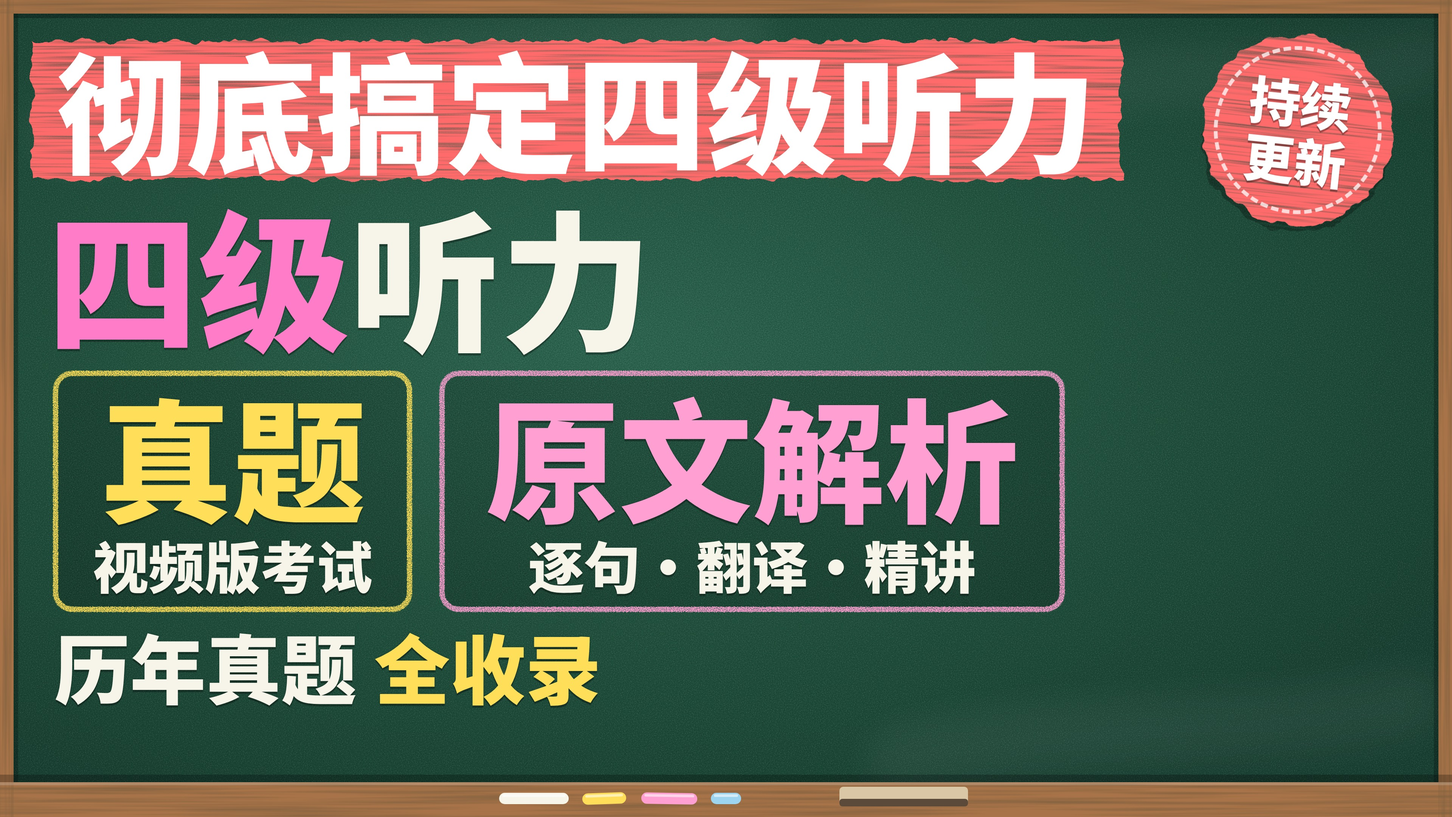
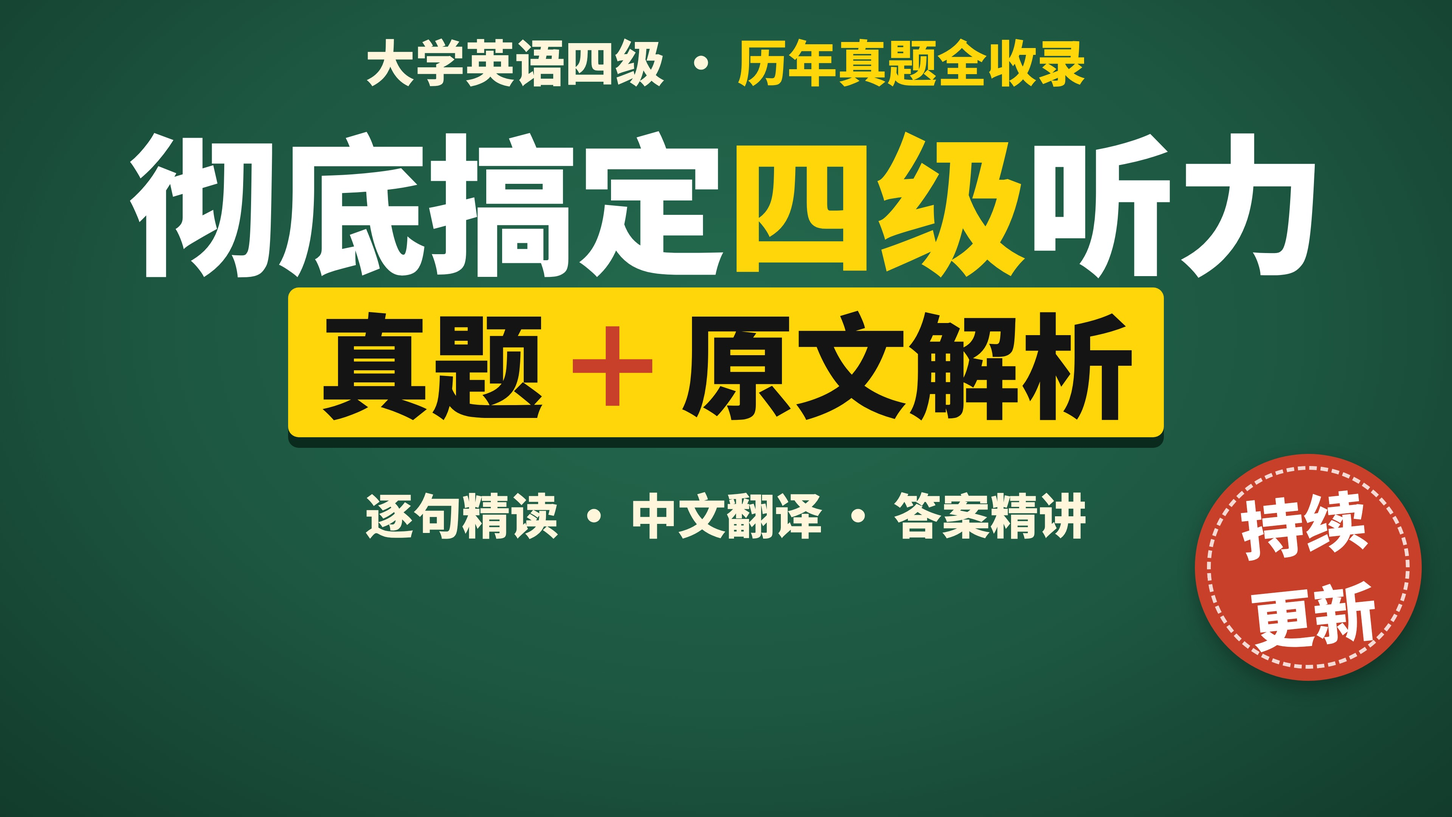
四级听力 B 站封面改用四级写作风格（米白纸面、红绿大字、真实画面卡片、持续更新圆章）
老师要求不能与六级听力黑板封面同风格；画面卡片取已发布 202506-1 原文解析视频一帧、裁掉印年份的页眉和 N / 200 进度条。
自查改用四级写作 CHECK_JS + 字体 cmap；画面不许有任何数字（年份、套数），--自检 双向验证通过。

Claude-Session: https://claude.ai/code/session_01BA1TPEEhbxA8jLrWbyseLi

diff --git a/四级/听力/封面/系列封面.py b/四级/听力/封面/系列封面.py
@@ -1,12 +1,16 @@
-"""四级听力 B 站系列封面（2026-11-06）：与六级听力封面（六级/听力/封面/系列封面.py）同一黑板系列，改成四级。
+"""四级听力 B 站系列封面（2026-11-06）：沿用「四级写作」封面风格（四级作文/封面/系列封面.py：配色、字体、版式、圆章、真实画面卡片）。
 
-    /opt/ttsenv/bin/python 四级/听力/封面/系列封面.py 草稿        # A/B/C 三个方向 16:9 + 4:3，只出 320×180、960×540 缩略图到 work/
-    /opt/ttsenv/bin/python 四级/听力/封面/系列封面.py 定稿 A      # 定稿出 16:9 + 4:3（PNG + JPG）到 系列封面/，另两个方向 16:9 JPG 作备选
-    /opt/ttsenv/bin/python 四级/听力/封面/系列封面.py --自检      # 双向验证：①字号×0.4 每个 data-min 元素都报、正常 0；②放进年份 / “N 套”必须报、现在 0
+    python3 四级/听力/封面/系列封面.py 草稿        # A/B/C 三个方向 16:9 + 4:3，只出 320×180、960×540 缩略图到 work/
+    python3 四级/听力/封面/系列封面.py 定稿 A      # 定稿出 16:9 + 4:3（PNG + JPG）到 系列封面/，另两个方向 16:9 JPG 作备选
+    python3 四级/听力/封面/系列封面.py --自检      # 双向验证：正常 0；字号×0.5、放回年份、写死套数、出现任何数字、缺字、圆章字出圆、缺必有的话都报
 
-老师要求（2026-11-06）：封面上绝对不出现任何年份（每年加新听力不换封面），改用“持续更新 / 最新真题”；套数也不写死，用“历年真题全收录”。
-两种视频都要突出：视频版真题考试（真题）＋ 原文逐句精读（原文解析：中文翻译、答案、精讲）。
-程序自查：六级作文 CHECK_JS（不出画、不压框、不进底角遮挡区、不重叠、字体加载、缩略图字高，踩坑 76）＋ NO_YEAR（画面文字里出现 19xx/20xx 或“数字＋套”就报）。
+老师要求（2026-11-06）：
+- 风格与四级写作封面一样，不能与六级听力（黑板）同一风格——两个系列并排要一眼分得开；
+- 封面上绝对不出现任何年份（每年加新听力不换封面），用“持续更新 / 最新真题”；套数不写死，用“历年真题全收录”；
+- 两种视频都要突出：视频版真题考试（真题）＋ 原文逐句精读（原文解析）；手机信息流 320×180 一眼看清。
+程序自查：四级写作的 CHECK_JS（不出画、不进底角遮挡区、不重叠、不压截图、圆章字在圆内、字体加载、缩略图字高 主标题 24 / 钩子 13 / 卖点 10 像素）
+＋ text_problems（每个字在所用字体 cmap 里；画面文字不许有任何数字——年份、套数都不许；“N 套”中文数字也报；必有的话都在）。
+素材：画面_原文解析.webp = 已发布的 cet4-listening-202506-1-text.mp4 第 200 秒一帧，裁掉顶部（印着年份月份）和底部（句号进度 “31 / 200”）。
 """
 import importlib.util
 import re
@@ -19,6 +23,7 @@ HERE = Path(__file__).resolve().parent
 REPO = HERE.parents[2]
 WORK = HERE / 'work'
 OUT = HERE / '系列封面'
+SHOT = HERE / '画面_原文解析.webp'
 
 
 def _load(name, path):
@@ -28,167 +33,185 @@ def _load(name, path):
     return m
 
 
-L = _load('cet6_cover', REPO / '六级/封面/系列封面.py')            # 黑板主题：配色、滤镜、木框、粉笔涂块
-W = _load('cet6w_cover', REPO / '六级作文/封面/系列封面.py')       # 自查程序 CHECK_JS
-S6 = _load('cet6l_cover', REPO / '六级/听力/封面/系列封面.py')     # 粉笔耳机、黑板底
-
-CHALK, YEL, PNK, BLU, INK, HOT = L.CHALK, L.YEL, L.PNK, L.BLU, L.INK, L.HOT
-RED = W.RED
+W4 = _load('cet4w_cover', REPO / '四级作文/封面/系列封面.py')     # 四级写作：配色、字体、css、CHECK_JS、cmap
+PAPER, GREEN, RED, INK, YEL, CREAM = W4.PAPER, W4.GREEN, W4.RED, W4.INK, W4.YEL, W4.CREAM
+FONTS = W4.FONTS
 MIN_TITLE, MIN_HOOK, MIN_SELL = 24, 13, 10
-K = 1.0                                                          # 字号系数：只给 --自检 用
-FOUR = f'<span style="color:{HOT}">四级</span>'
+MUST = ['彻底搞定四级听力', '真题', '原文解析', '持续更新', '历年真题全收录']
+K = 1.0          # 字号系数（只给 --自检 用）
+EXTRA = ''       # 自检时往画面里塞的东西
+SEAL_R = .28     # 圆章字号 / 直径（自检放大到 .40 必须报“字出了圆”）
 JX = '原文解析'
-PLUS = f'<span class="ck" style="color:{CHALK};margin:0 .12em">＋</span>'
-board, phones = S6.board, S6.phones
-
-# 画面文字里不许有年份、不许有具体套数（老师 2026-11-06）；全角数字先折成半角再查
-NO_YEAR_JS = r"""() => {
-  const t = document.body.innerText.replace(/[０-９]/g, c => String.fromCharCode(c.charCodeAt(0) - 0xFEE0));
-  const out = [];
-  for (const m of t.matchAll(/(?<!\d)(19|20)\d\d(?!\d)/g)) out.push('年份 ' + m[0]);
-  for (const m of t.matchAll(/(?<!\d)(?:[2-9]|[1-9]\d+)\s*套|(?:[二两三四五六七八九十百]|一[十百])[一二三四五六七八九十百]*\s*套/g)) out.push('套数 ' + m[0].replace(/\s+/g, ''));
-  return out;
-}"""
 
 
 def fs(n):
     return f'{n * K:.0f}px'
 
 
-def y(t):
-    return f'<span style="color:{YEL}">{t}</span>'
+def seal(x, y, d, bg=RED, fg='#fff', rot=-8, ring='rgba(255,255,255,.8)'):
+    """“持续更新”圆章（钩子；四级写作是“2026.6 已更新”，听力不写年份）。"""
+    return (f'<div class="ab" data-k="seal" data-min="{MIN_HOOK}" data-round="1" style="left:{x}px;top:{y}px;width:{d}px;height:{d}px;border-radius:50%;'
+            f'background:{bg};color:{fg};transform:rotate({rot}deg);display:flex;flex-direction:column;align-items:center;justify-content:center;'
+            f'box-shadow:0 10px 24px rgba(0,0,0,.28);line-height:1.08">'
+            f'<i style="position:absolute;inset:{d * .055:.0f}px;border-radius:50%;border:{max(3, d * .016):.0f}px dashed {ring}"></i>'
+            f'<span style="font:900 {fs(d * SEAL_R)} Black">持续</span>'
+            f'<span style="font:900 {fs(d * SEAL_R)} Black">更新</span></div>')
 
 
-def seal(x, y_, d, rot=8, top='持续', bot='更新'):
-    """“持续更新”粉笔红圆章（六级是“2026 已更新”，四级不写年份）。"""
-    return (f'<div class="ab" data-k="seal" data-min="{MIN_SELL}" style="left:{x}px;top:{y_}px;width:{d}px;height:{d}px;transform:rotate({rot}deg);'
-            f'display:flex;flex-direction:column;align-items:center;justify-content:center;line-height:1.05;color:#fff">'
-            f'<i style="position:absolute;inset:0;border-radius:50%;background:{RED};filter:url(#rough);box-shadow:0 8px 0 rgba(0,0,0,.3)"></i>'
-            f'<i style="position:absolute;inset:{d * .06:.0f}px;border-radius:50%;border:5px dashed rgba(255,255,255,.75)"></i>'
-            f'<span class="ck" style="position:relative;font:900 {fs(d * .27)}/1.12 Black">{top}</span>'
-            f'<span class="ck" style="position:relative;font:900 {fs(d * .27)}/1.12 Black">{bot}</span></div>')
+def card(x, y, w, rot=3):
+    return f'<img class="card" data-k="card" src="{SHOT.as_uri()}" style="left:{x}px;top:{y}px;width:{w}px;transform:rotate({rot}deg)">'
 
 
-def tags(size, pos, k='tags'):
-    return (f'<div class="ab" data-k="{k}" data-min="{MIN_TITLE}" style="{pos};white-space:nowrap;font:900 {fs(size)}/1.22 Black">'
-            f'{L.hl("真题", YEL, px=22)}{PLUS}{L.hl(JX, BLU, px=22)}</div>')
+def two(size, pad):
+    """“真题 ＋ 原文解析”：墨绿实底白字（与四级写作「四级真题范文」同一块）。"""
+    return (f'font:900 {fs(size)}/1 Black;color:#fff;background:{GREEN};padding:{size * .16:.0f}px {size * .22:.0f}px {size * .2:.0f}px;box-shadow:12px 12px 0 {RED}">'
+            f'真题<span style="color:{YEL};margin:0 .1em">＋</span>{JX}')
 
 
-def hook(size, pos, px=30):
-    return f'<div class="ab" data-k="hook" data-min="{MIN_HOOK}" style="{pos};font:900 {fs(size)}/1.18 Black">{L.hl("彻底搞定四级听力", RED, ink="#fff", px=px)}</div>'
-
-
-# ───────── A：六级定稿同版式；年份一行换成“历年真题全收录” ─────────
+# ───────── A：四级写作定稿同版式（米白纸面 ＋ 真实画面 ＋ 红圆章） ─────────
 def A(w=1920, h=1080):
-    big = w >= 1900
-    if not big:
-        return board(w, h, f"""
-{hook(128, 'left:60px;top:46px', 26)}
-{seal(1160, 60, 240, rot=6)}
-<div class="ab ck" data-k="title" data-min="{MIN_TITLE}" style="left:54px;top:236px;font:900 {fs(230)}/1 Black;letter-spacing:-.02em">{FOUR}听力</div>
-{tags(158, 'left:84px;top:486px')}
-{phones(1080, 700, .8)}
-<div class="ab ck" data-k="years" data-min="{MIN_SELL}" style="left:60px;top:712px;font:900 {fs(96)}/1.2 Black">历年真题<br>{y('全收录')}</div>""")
-    return board(w, h, f"""
-{hook(172, 'left:74px;top:40px', 32)}
-{seal(1590, 46, 252, rot=6)}
-<div class="ab ck" data-k="title" data-min="{MIN_TITLE}" style="left:62px;top:272px;font:900 {fs(230)}/1 Black;letter-spacing:-.02em">{FOUR}听力</div>
-{tags(168, 'left:96px;top:520px')}
-{phones(1580, 690, .86)}
-<div class="ab ck" data-k="years" data-min="{MIN_SELL}" style="left:72px;top:768px;font:900 {fs(116)}/1.2 Black">历年真题 {y('全收录')}</div>""")
+    wide = w >= 1900
+    t = 250 if wide else 220
+    sub = 150 if wide else 146
+    left = 74 if wide else 60
+    return f"""
+<div style="position:absolute;inset:0;background:{PAPER}"></div>
+<div style="position:absolute;left:0;top:0;width:{w}px;height:22px;background:{GREEN}"></div>
+<div style="position:absolute;left:{left}px;top:22px;width:{w - 2 * left}px;height:4px;background:{RED}"></div>
+<div class="ab" data-k="sell" data-min="{MIN_SELL}" style="left:{left}px;top:44px;font:900 {fs(64)}/1.2 SerifSC;color:{GREEN};letter-spacing:.02em">
+ 历年真题全收录 · <span style="color:{RED}">逐句精读</span></div>
+<div class="ab" data-k="title" data-min="{MIN_TITLE}" style="left:{left - 8}px;top:{128 if wide else 140}px;font:900 {fs(t)}/1.04 Black;color:{INK};letter-spacing:-.02em">
+ <div>彻底搞定</div><div><span style="color:{RED}">四级</span>听力</div></div>
+<div class="ab" data-k="sub" data-min="{MIN_TITLE}" style="left:{left}px;top:{t * 2.08 + (150 if wide else 168):.0f}px;{two(sub, 0)}</div>
+{card(1260, 560, 620, rot=3) if wide else card(1020, 850, 380, rot=4)}
+{seal(1520, 50, 340) if wide else seal(1040, 170, 340)}
+{EXTRA}"""
 
 
-# ───────── B：两张粉笔框大卡片，各带一行小说明 ─────────
-def card(word, col, note, size, wcard):
-    return (f'<div style="position:relative;display:inline-block;vertical-align:top;width:{wcard}px;padding:10px 0 18px;text-align:center;margin-right:36px">'
-            f'<i style="position:absolute;inset:0;border:7px solid {col};border-radius:26px;background:rgba(0,0,0,.20);filter:url(#line)"></i>'
-            f'<div class="ck" style="position:relative;font:900 {fs(size)}/1.15 Black;color:{col}">{word}</div>'
-            f'<div class="ck" data-k="note" data-min="{MIN_SELL}" style="position:relative;font:900 {fs(size * .42)}/1.2 Black;color:{CHALK}">{note}</div></div>')
-
-
+# ───────── B：深绿底 · 居中大字（四级写作备选 B 同版式） ─────────
 def B(w=1920, h=1080):
-    big = w >= 1900
-    sz = 176 if big else 150
-    c1 = card('真题', YEL, '视频版考试', sz, round(sz * 2.7))
-    c2 = card(JX, PNK, '逐句·翻译·精讲', sz, round(sz * 4.7))
-    return board(w, h, f"""
-{hook(172 if big else 128, f'left:{74 if big else 60}px;top:{40 if big else 46}px', 32 if big else 26)}
-{seal(1590 if big else 1160, 46 if big else 60, 252 if big else 240, rot=6)}
-<div class="ab ck" data-k="title" data-min="{MIN_TITLE}" style="left:62px;top:{262 if big else 236}px;font:900 {fs(200 if big else 190)}/1 Black">{FOUR}听力</div>
-<div class="ab" data-k="tags" data-min="{MIN_TITLE}" style="left:{70 if big else 60}px;top:{490 if big else 456}px;white-space:nowrap">{c1}{c2}</div>
-<div class="ab ck" data-k="years" data-min="{MIN_SELL}" style="left:72px;top:{820 if big else 800}px;font:900 {fs(100 if big else 90)}/1.2 Black">历年真题 {y('全收录')}</div>""")
+    wide = w >= 1900
+    c = w / 2
+    t = 200 if wide else 156
+    sub = 150 if wide else 146
+    tops = (40, 150, 380, 640) if wide else (36, 136, 330, 570)
+    sl = seal(1580, 600, 300, rot=-6) if wide else seal(c - 170, 680, 340, rot=-6)
+    return f"""
+<div style="position:absolute;inset:0;background:radial-gradient(ellipse at 50% 40%, #236a4f 0%, {GREEN} 55%, #123b2b 100%)"></div>
+<div class="ab" data-k="sell" data-min="{MIN_SELL}" style="left:{c}px;transform:translateX(-50%);top:{tops[0]}px;font:900 {fs(66)}/1.2 Black;color:{CREAM}">
+ 大学英语四级 · <span style="color:{YEL}">历年真题全收录</span></div>
+<div class="ab" data-k="title" data-min="{MIN_TITLE}" style="left:{c}px;transform:translateX(-50%);top:{tops[1]}px;font:900 {fs(t)}/1.1 Black;color:#fff;letter-spacing:-.01em">
+ 彻底搞定<span style="color:{YEL}">四级</span>听力</div>
+<div class="ab" data-k="sub" data-min="{MIN_TITLE}" style="left:{c}px;transform:translateX(-50%);top:{tops[2]}px;font:900 {fs(sub)}/1 Black;color:{INK};background:{YEL};padding:{sub * .14:.0f}px {sub * .26:.0f}px {sub * .18:.0f}px;border-radius:14px;box-shadow:0 14px 0 #0b2a1e">
+ 真题<span style="color:{RED};margin:0 .1em">＋</span>{JX}</div>
+<div class="ab" data-k="sell2" data-min="{MIN_SELL}" style="left:{c}px;transform:translateX(-50%);top:{tops[3]}px;font:900 {fs(64)}/1.2 Black;color:{CREAM}">
+ 逐句精读 · 中文翻译 · 答案精讲</div>
+{sl}
+{EXTRA}"""
 
 
-# ───────── C：主标题两行纯粉笔字，钩子红块压在下面 ─────────
+# ───────── C：黄黑撞色（四级写作备选 C 同版式）＋ 真实画面 ─────────
 def C(w=1920, h=1080):
-    big = w >= 1900
-    return board(w, h, f"""
-<div class="ab ck" data-k="title" data-min="{MIN_TITLE}" style="left:62px;top:50px;font:900 {fs(236 if big else 214)}/1 Black;letter-spacing:-.02em">{FOUR}听力</div>
-{seal(1590 if big else 1160, 46 if big else 60, 252 if big else 240, rot=6, top='最新', bot='真题')}
-<div class="ab ck" data-k="tags" data-min="{MIN_TITLE}" style="left:62px;top:{318 if big else 312}px;white-space:nowrap;font:900 {fs(190 if big else 156)}/1 Black">
- <span style="color:{YEL}">真题</span><span style="color:{CHALK}">＋</span><span style="color:{BLU}">{JX}</span></div>
-<div class="ab ck" data-k="years" data-min="{MIN_SELL}" style="left:72px;top:{560 if big else 530}px;font:900 {fs(104 if big else 92)}/1.2 Black">历年真题 {y('全收录')}</div>
-{hook(160 if big else 126, f'left:{90 if big else 70}px;top:{760 if big else 720}px', 30)}""")
+    wide = w >= 1900
+    left = 84 if wide else 60
+    return f"""
+<div style="position:absolute;inset:0;background:{YEL}"></div>
+<div class="ab" data-k="sell" data-min="{MIN_SELL}" style="left:{left}px;top:48px;font:900 {fs(64 if wide else 62)}/1.2 Black;color:{INK}">
+ 大学英语四级 · 历年真题全收录</div>
+<div class="ab" data-k="sub" data-min="{MIN_TITLE}" style="left:{left - 6}px;top:130px;font:900 {fs(200 if wide else 150)}/1 Black;color:{INK};letter-spacing:-.02em">
+ 真题<span style="color:{RED}">＋</span>{JX}</div>
+<div class="ab" data-k="title" data-min="{MIN_TITLE}" style="left:{left}px;top:{390 if wide else 350}px;font:900 {fs(150)}/1.2 Black;color:#fff;background:{INK};padding:0 30px 6px">
+ 彻底搞定<span style="color:{YEL}">四级听力</span></div>
+<div class="ab" data-k="sell2" data-min="{MIN_SELL}" style="left:{left}px;top:{630 if wide else 590}px;font:900 {fs(64)}/1.2 Black;color:{INK}">
+ 视频版考试 · 逐句精读</div>
+{card(1130, 650, 660, rot=-3) if wide else card(70, 740, 560, rot=-2)}
+{seal(1500, 520, 340, rot=10) if wide else seal(1052, 570, 340, rot=6)}
+{EXTRA}"""
 
 
 DIRS = {'A': A, 'B': B, 'C': C}
 
 
+def no_year_problems(text):
+    """画面文字（老师 2026-11-06）：不许有任何数字（年份、套数、期数都会过时），中文数字＋套也报。"""
+    t = text.translate({0xFF10 + i: 0x30 + i for i in range(10)})
+    out = ['年份 ' + m.group() for m in re.finditer(r'(?<!\d)(19|20)\d\d(?!\d)', t)]
+    out += ['数字 ' + m.group() for m in re.finditer(r'\d+', t) if not re.fullmatch(r'(19|20)\d\d', m.group())]
+    out += ['套数 ' + m.group() for m in re.finditer(r'[一二两三四五六七八九十百]+\s*套', t)]
+    return out
+
+
+def text_problems(res):
+    out = []
+    for fam, t in res['texts']:
+        f0 = fam.split(',')[0].strip().strip('"\'')
+        if f0 not in FONTS:
+            out.append(f'「{t.strip()}」用了不认识的字体 {fam}')
+            continue
+        miss = {ch for ch in t if not ch.isspace() and ord(ch) not in W4.cmap(f0)}
+        if miss:
+            out.append(f'「{t.strip()}」{f0} 缺字 {"".join(sorted(miss))}（会回退到系统字体）')
+    out += no_year_problems(res['all'])
+    flat = re.sub(r'\s+', '', res['all'])
+    out += [f'画面上没有「{s}」' for s in MUST if s not in flat]
+    return out
+
+
 def render(br, body, w, h, name, out):
     html = WORK / f'{name}.html'
-    html.write_text(f'<!doctype html><html><head><meta charset="utf-8"><style>{L.css(w, h)}</style></head>'
-                    f'<body>{L.SVG_DEFS}{body}</body></html>', 'utf-8')
+    html.write_text(f'<!doctype html><html><head><meta charset="utf-8"><style>{W4.css(w, h)}</style></head><body>{body}</body></html>', 'utf-8')
     pg = br.new_page(viewport={'width': w, 'height': h}, device_scale_factor=2)
     pg.goto(html.as_uri())
-    pg.evaluate('document.fonts.ready.then(() => [...document.fonts].forEach(f => f.load()))')
+    pg.evaluate('document.fonts.ready.then(() => Promise.all([...document.fonts].map(f => f.load())))')
     pg.evaluate('document.fonts.ready')
-    pg.wait_for_timeout(500)
-    res = pg.evaluate(W.CHECK_JS)
-    res['problems'] += pg.evaluate(NO_YEAR_JS)
+    pg.wait_for_timeout(400)
+    res = pg.evaluate(W4.CHECK_JS)
     png = out / f'{name}.png'
     pg.screenshot(path=str(png))
     pg.close()
-    return png, res
+    return png, res['problems'] + text_problems(res)
 
 
 def selftest(br):
-    global K
+    global K, EXTRA, SEAL_R
     bad = []
+    ins = lambda s: f'<div class="ab" data-k="num" style="left:900px;top:960px;font:900 40px Black">{s}</div>'
+    cases = [('正常', 1.0, '', None),
+             ('字号×0.5', 0.5, '', '缩略图字高'),
+             ('年份', 1.0, ins('2026 已更新'), '年份 2026'),
+             ('年份段', 1.0, ins('2018—2026'), '年份 2018'),
+             ('全角年份', 1.0, ins('２０２５年'), '年份 2025'),
+             ('套数', 1.0, ins('全部 35 套'), '数字 35'),
+             ('中文套数', 1.0, ins('真题三十五套'), '套数 三十五套'),
+             ('缺字', 1.0, ins('四级😀'), '缺字'),
+             ('圆章字大', 1.0, '', '字出了圆')]
     for k, f in DIRS.items():
         for w in (1920, 1440):
-            for kk in (1.0, 0.4):
-                K = kk
+            for nm, kk, extra, want in cases:
+                K, EXTRA, SEAL_R = kk, extra, (.40 if nm == '圆章字大' else .28)
                 body = f(w, 1080)
-                _, res = render(br, body, w, 1080, f'自检_{k}_{w}', WORK)
-                hit = {x.split()[0] for x in res['problems'] if '缩略图字高' in x}
-                need = set(re.findall(r'data-k="(\w+)" data-min=', body)) if kk < 1 else set()
-                if kk < 1 and not {'hook', 'years', 'title', 'tags'} <= need:
-                    bad.append(f'{k}{w} 缺少 data-min 元素：{sorted(need)}')
-                if hit != need:
-                    bad.append(f'{k}{w} 字号×{kk}：报出 {sorted(hit)}，应为 {sorted(need)}')
-                other = [x for x in res['problems'] if '缩略图字高' not in x]
-                if kk == 1.0 and other:
-                    bad.append(f'{k}{w} 正常版报出：{other}')
-            K = 1.0
-            # 年份 / 套数雷：六级的旧说法放回去必须报（各种写法）
-            for mine, want in ((seal(1590, 46, 252, top='2026', bot='已更新'), '年份 2026'),
-                               ('历年真题 全收录', None),
-                               ('历年真题 <span>2018—2026</span>', '年份 2018'),
-                               ('全部 <span style="color:#ff0">35</span> 套', '套数 35套'),
-                               ('全部 ２０２５ 年', '年份 2025'),
-                               ('真题三十五套', '套数 三十五套')):
-                body = f(w, 1080).replace('</div>', f'</div><div class="ab" style="left:300px;top:300px">{mine}</div>', 1)
-                _, res = render(br, body, w, 1080, f'自检雷_{k}_{w}', WORK)
-                got = [x for x in res['problems'] if x.startswith(('年份', '套数'))]
-                if want is None and got:
-                    bad.append(f'{k}{w} 雷 {mine!r} 不该报：{got}')
-                if want and want not in got:
-                    bad.append(f'{k}{w} 雷 {mine!r} 没报出 {want}：{got}')
+                _, probs = render(br, body, w, 1080, f'自检_{k}_{w}_{nm}', WORK)
+                if want is None:
+                    if probs:
+                        bad.append(f'{k}{w} 正常却报 {probs}')
+                elif want == '缩略图字高':
+                    need = set(re.findall(r'data-k="(\w+)" data-min=', body))
+                    hit = {x.split()[0] for x in probs if want in x}
+                    if hit != need or not {'title', 'sub', 'seal'} <= need:
+                        bad.append(f'{k}{w} {nm}：报出 {sorted(hit)}，应为 {sorted(need)}')
+                elif not any(want in x for x in probs):
+                    bad.append(f'{k}{w} {nm}：没报出 {want}（{probs}）')
+            body = f(w, 1080).replace('历年真题全收录', '历年真题')       # 必有的话
+            _, probs = render(br, body, w, 1080, f'自检_{k}_{w}_必有', WORK)
+            if not any('历年真题全收录' in x for x in probs):
+                bad.append(f'{k}{w} 去掉“历年真题全收录”没报')
+    K, EXTRA, SEAL_R = 1.0, '', .28
     return bad
 
 
 def main(args):
     from playwright.sync_api import sync_playwright
+    W4.ensure_fonts()
     WORK.mkdir(exist_ok=True)
     OUT.mkdir(exist_ok=True)
     bad = []
@@ -197,22 +220,20 @@ def main(args):
         if args[0] == '--自检':
             bad = selftest(br)
             br.close()
-            print('\n'.join(bad) or '自检通过：字号×0.4 每个 data-min 元素全部报出、正常 0；年份 / 套数雷全部报出、正常 0（A/B/C × 16:9、4:3）')
+            print('\n'.join(bad) or '自检通过：正常 0 处；字号×0.5、年份（含年份段、全角）、套数（含中文数字）、缺字、圆章字出圆、缺必有的话全部报出（A/B/C × 16:9、4:3）')
             return 1 if bad else 0
         final = args[1] if args[0] == '定稿' else None
         stem = '四级听力真题与原文解析_封面'
         jobs = []
         for k, f in DIRS.items():
             if final is None:
-                jobs += [(f(1920, 1080), 1920, 1080, f'草稿_{k}_16比9', WORK), (f(1440, 1080), 1440, 1080, f'草稿_{k}_4比3', WORK)]
+                jobs += [(f(1920, 1080), 1920, 1080, f'草稿_{k}_16比9', WORK, False), (f(1440, 1080), 1440, 1080, f'草稿_{k}_4比3', WORK, False)]
             elif k == final:
                 jobs += [(f(1920, 1080), 1920, 1080, f'{stem}_16比9', OUT, True), (f(1440, 1080), 1440, 1080, f'{stem}_4比3', OUT, True)]
             else:
                 jobs.append((f(1920, 1080), 1920, 1080, f'{stem}备选{k}_16比9', OUT, False))
-        for job in jobs:
-            body, w, h, name, out = job[:5]
-            keep_png = job[5] if len(job) > 5 else True
-            png, res = render(br, body, w, h, name, out)
+        for body, w, h, name, out, keep_png in jobs:
+            png, probs = render(br, body, w, h, name, out)
             im = Image.open(png).convert('RGB')
             assert im.size == (w * 2, h * 2), im.size
             th = round(w * 180 / h)
@@ -224,12 +245,12 @@ def main(args):
                 print(f'{jpg.name} {jpg.stat().st_size / 1e6:.1f} MB')
                 if not keep_png:
                     png.unlink()
-            bad += [f'{name}: {x}' for x in res['problems']]
+            bad += [f'{name}: {x}' for x in probs]
         br.close()
     if bad:
         print('自查不通过：\n  ' + '\n  '.join(bad))
         return 1
-    print('自查通过：无年份、无套数；缩略图字高达标、文字不出画、不压木框、不进底角遮挡区、互不重叠、字体全部加载')
+    print('自查通过：无年份、无数字；缩略图字高达标、文字不出画、不进底角遮挡区、不压截图、互不重叠、字体全部加载、无缺字')
     return 0
 
 

diff --git a/四级/听力/封面/标题与简介.py b/四级/听力/封面/标题与简介.py
@@ -80,7 +80,7 @@ if __name__ == '__main__':
 
 ## 封面
 
-`系列封面/四级听力真题与原文解析_封面_16比9.jpg`、`_4比3.jpg`（`系列封面.py 定稿 A`）；B、C 两个方向的 16:9 作备选。
+`系列封面/四级听力真题与原文解析_封面_16比9.jpg`、`_4比3.jpg`（`系列封面.py 定稿 A`，四级写作同风格：米白纸面、红绿大字、真实画面、“持续更新”圆章）；B（深绿居中）、C（黄黑撞色）的 16:9 作备选。
 
 ## 简介（{len(desc)} 字，上限 2000）
 

diff --git a/四级/听力/封面/B站标题与简介.md b/四级/听力/封面/B站标题与简介.md
@@ -10,7 +10,7 @@
 
 ## 封面
 
-`系列封面/四级听力真题与原文解析_封面_16比9.jpg`、`_4比3.jpg`（`系列封面.py 定稿 A`）；B、C 两个方向的 16:9 作备选。
+`系列封面/四级听力真题与原文解析_封面_16比9.jpg`、`_4比3.jpg`（`系列封面.py 定稿 A`，四级写作同风格：米白纸面、红绿大字、真实画面、“持续更新”圆章）；B（深绿居中）、C（黄黑撞色）的 16:9 作备选。
 
 ## 简介（559 字，上限 2000）
 
